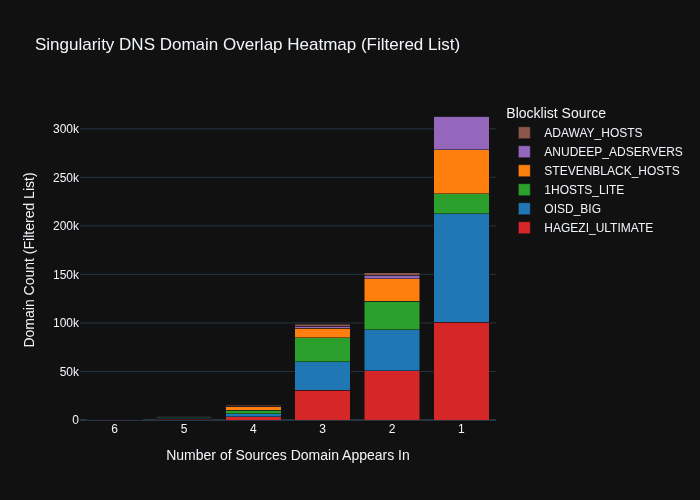
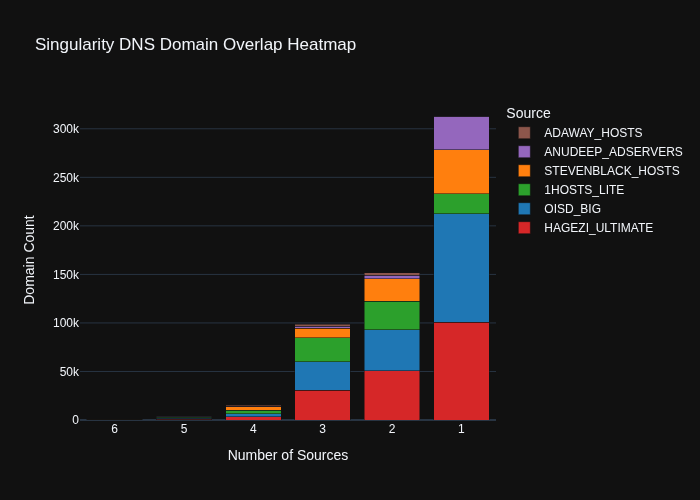
🤖 Update combined blocklist and metrics report

diff --git a/Aggregated_list/dashboard.html b/Aggregated_list/dashboard.html
@@ -2,6 +2,6 @@
 <head><meta charset="utf-8" /></head>
 <body>
     <div>                        <script type="text/javascript">window.PlotlyConfig = {MathJaxConfig: 'local'};</script>
-        <script charset="utf-8" src="https://cdn.plot.ly/plotly-3.3.0.min.js" integrity="sha256-bO3dS6yCpk9aK4gUpNELtCiDeSYvGYnK7jFI58NQnHI=" crossorigin="anonymous"></script>                <div id="25662a97-d006-40bb-9c57-b7e707ad265c" class="plotly-graph-div" style="height:100%; width:100%;"></div>            <script type="text/javascript">                window.PLOTLYENV=window.PLOTLYENV || {};                                if (document.getElementById("25662a97-d006-40bb-9c57-b7e707ad265c")) {                    Plotly.newPlot(                        "25662a97-d006-40bb-9c57-b7e707ad265c",                        [{"hovertemplate":"\u003cb\u003eSource:\u003c\u002fb\u003e %{name}\u003cbr\u003e\u003cb\u003eOverlap Level:\u003c\u002fb\u003e %{x}\u003cbr\u003e\u003cb\u003eDomains:\u003c\u002fb\u003e %{y:}\u003cextra\u003e\u003c\u002fextra\u003e","marker":{"color":"#d62728"},"name":"HAGEZI_ULTIMATE","x":["6","5","4","3","2","1"],"y":[158,874,3336,30520,50690,100509],"type":"bar"},{"hovertemplate":"\u003cb\u003eSource:\u003c\u002fb\u003e %{name}\u003cbr\u003e\u003cb\u003eOverlap Level:\u003c\u002fb\u003e %{x}\u003cbr\u003e\u003cb\u003eDomains:\u003c\u002fb\u003e %{y:}\u003cextra\u003e\u003c\u002fextra\u003e","marker":{"color":"#1f77b4"},"name":"OISD_BIG","x":["6","5","4","3","2","1"],"y":[158,833,3024,29542,42377,111984],"type":"bar"},{"hovertemplate":"\u003cb\u003eSource:\u003c\u002fb\u003e %{name}\u003cbr\u003e\u003cb\u003eOverlap Level:\u003c\u002fb\u003e %{x}\u003cbr\u003e\u003cb\u003eDomains:\u003c\u002fb\u003e %{y:}\u003cextra\u003e\u003c\u002fextra\u003e","marker":{"color":"#2ca02c"},"name":"1HOSTS_LITE","x":["6","5","4","3","2","1"],"y":[158,890,3537,24654,29384,20522],"type":"bar"},{"hovertemplate":"\u003cb\u003eSource:\u003c\u002fb\u003e %{name}\u003cbr\u003e\u003cb\u003eOverlap Level:\u003c\u002fb\u003e %{x}\u003cbr\u003e\u003cb\u003eDomains:\u003c\u002fb\u003e %{y:}\u003cextra\u003e\u003c\u002fextra\u003e","marker":{"color":"#ff7f0e"},"name":"STEVENBLACK_HOSTS","x":["6","5","4","3","2","1"],"y":[158,912,3555,9763,23117,45204],"type":"bar"},{"hovertemplate":"\u003cb\u003eSource:\u003c\u002fb\u003e %{name}\u003cbr\u003e\u003cb\u003eOverlap Level:\u003c\u002fb\u003e %{x}\u003cbr\u003e\u003cb\u003eDomains:\u003c\u002fb\u003e %{y:}\u003cextra\u003e\u003c\u002fextra\u003e","marker":{"color":"#9467bd"},"name":"ANUDEEP_ADSERVERS","x":["6","5","4","3","2","1"],"y":[158,382,729,2261,3473,34971],"type":"bar"},{"hovertemplate":"\u003cb\u003eSource:\u003c\u002fb\u003e %{name}\u003cbr\u003e\u003cb\u003eOverlap Level:\u003c\u002fb\u003e %{x}\u003cbr\u003e\u003cb\u003eDomains:\u003c\u002fb\u003e %{y:}\u003cextra\u003e\u003c\u002fextra\u003e","marker":{"color":"#8c564b"},"name":"ADAWAY_HOSTS","x":["6","5","4","3","2","1"],"y":[158,669,895,1987,2779,10],"type":"bar"}],                        {"template":{"data":{"barpolar":[{"marker":{"line":{"color":"rgb(17,17,17)","width":0.5},"pattern":{"fillmode":"overlay","size":10,"solidity":0.2}},"type":"barpolar"}],"bar":[{"error_x":{"color":"#f2f5fa"},"error_y":{"color":"#f2f5fa"},"marker":{"line":{"color":"rgb(17,17,17)","width":0.5},"pattern":{"fillmode":"overlay","size":10,"solidity":0.2}},"type":"bar"}],"carpet":[{"aaxis":{"endlinecolor":"#A2B1C6","gridcolor":"#506784","linecolor":"#506784","minorgridcolor":"#506784","startlinecolor":"#A2B1C6"},"baxis":{"endlinecolor":"#A2B1C6","gridcolor":"#506784","linecolor":"#506784","minorgridcolor":"#506784","startlinecolor":"#A2B1C6"},"type":"carpet"}],"choropleth":[{"colorbar":{"outlinewidth":0,"ticks":""},"type":"choropleth"}],"contourcarpet":[{"colorbar":{"outlinewidth":0,"ticks":""},"type":"contourcarpet"}],"contour":[{"colorbar":{"outlinewidth":0,"ticks":""},"colorscale":[[0.0,"#0d0887"],[0.1111111111111111,"#46039f"],[0.2222222222222222,"#7201a8"],[0.3333333333333333,"#9c179e"],[0.4444444444444444,"#bd3786"],[0.5555555555555556,"#d8576b"],[0.6666666666666666,"#ed7953"],[0.7777777777777778,"#fb9f3a"],[0.8888888888888888,"#fdca26"],[1.0,"#f0f921"]],"type":"contour"}],"heatmap":[{"colorbar":{"outlinewidth":0,"ticks":""},"colorscale":[[0.0,"#0d0887"],[0.1111111111111111,"#46039f"],[0.2222222222222222,"#7201a8"],[0.3333333333333333,"#9c179e"],[0.4444444444444444,"#bd3786"],[0.5555555555555556,"#d8576b"],[0.6666666666666666,"#ed7953"],[0.7777777777777778,"#fb9f3a"],[0.8888888888888888,"#fdca26"],[1.0,"#f0f921"]],"type":"heatmap"}],"histogram2dcontour":[{"colorbar":{"outlinewidth":0,"ticks":""},"colorscale":[[0.0,"#0d0887"],[0.1111111111111111,"#46039f"],[0.2222222222222222,"#7201a8"],[0.3333333333333333,"#9c179e"],[0.4444444444444444,"#bd3786"],[0.5555555555555556,"#d8576b"],[0.6666666666666666,"#ed7953"],[0.7777777777777778,"#fb9f3a"],[0.8888888888888888,"#fdca26"],[1.0,"#f0f921"]],"type":"histogram2dcontour"}],"histogram2d":[{"colorbar":{"outlinewidth":0,"ticks":""},"colorscale":[[0.0,"#0d0887"],[0.1111111111111111,"#46039f"],[0.2222222222222222,"#7201a8"],[0.3333333333333333,"#9c179e"],[0.4444444444444444,"#bd3786"],[0.5555555555555556,"#d8576b"],[0.6666666666666666,"#ed7953"],[0.7777777777777778,"#fb9f3a"],[0.8888888888888888,"#fdca26"],[1.0,"#f0f921"]],"type":"histogram2d"}],"histogram":[{"marker":{"pattern":{"fillmode":"overlay","size":10,"solidity":0.2}},"type":"histogram"}],"mesh3d":[{"colorbar":{"outlinewidth":0,"ticks":""},"type":"mesh3d"}],"parcoords":[{"line":{"colorbar":{"outlinewidth":0,"ticks":""}},"type":"parcoords"}],"pie":[{"automargin":true,"type":"pie"}],"scatter3d":[{"line":{"colorbar":{"outlinewidth":0,"ticks":""}},"marker":{"colorbar":{"outlinewidth":0,"ticks":""}},"type":"scatter3d"}],"scattercarpet":[{"marker":{"colorbar":{"outlinewidth":0,"ticks":""}},"type":"scattercarpet"}],"scattergeo":[{"marker":{"colorbar":{"outlinewidth":0,"ticks":""}},"type":"scattergeo"}],"scattergl":[{"marker":{"line":{"color":"#283442"}},"type":"scattergl"}],"scattermapbox":[{"marker":{"colorbar":{"outlinewidth":0,"ticks":""}},"type":"scattermapbox"}],"scattermap":[{"marker":{"colorbar":{"outlinewidth":0,"ticks":""}},"type":"scattermap"}],"scatterpolargl":[{"marker":{"colorbar":{"outlinewidth":0,"ticks":""}},"type":"scatterpolargl"}],"scatterpolar":[{"marker":{"colorbar":{"outlinewidth":0,"ticks":""}},"type":"scatterpolar"}],"scatter":[{"marker":{"line":{"color":"#283442"}},"type":"scatter"}],"scatterternary":[{"marker":{"colorbar":{"outlinewidth":0,"ticks":""}},"type":"scatterternary"}],"surface":[{"colorbar":{"outlinewidth":0,"ticks":""},"colorscale":[[0.0,"#0d0887"],[0.1111111111111111,"#46039f"],[0.2222222222222222,"#7201a8"],[0.3333333333333333,"#9c179e"],[0.4444444444444444,"#bd3786"],[0.5555555555555556,"#d8576b"],[0.6666666666666666,"#ed7953"],[0.7777777777777778,"#fb9f3a"],[0.8888888888888888,"#fdca26"],[1.0,"#f0f921"]],"type":"surface"}],"table":[{"cells":{"fill":{"color":"#506784"},"line":{"color":"rgb(17,17,17)"}},"header":{"fill":{"color":"#2a3f5f"},"line":{"color":"rgb(17,17,17)"}},"type":"table"}]},"layout":{"annotationdefaults":{"arrowcolor":"#f2f5fa","arrowhead":0,"arrowwidth":1},"autotypenumbers":"strict","coloraxis":{"colorbar":{"outlinewidth":0,"ticks":""}},"colorscale":{"diverging":[[0,"#8e0152"],[0.1,"#c51b7d"],[0.2,"#de77ae"],[0.3,"#f1b6da"],[0.4,"#fde0ef"],[0.5,"#f7f7f7"],[0.6,"#e6f5d0"],[0.7,"#b8e186"],[0.8,"#7fbc41"],[0.9,"#4d9221"],[1,"#276419"]],"sequential":[[0.0,"#0d0887"],[0.1111111111111111,"#46039f"],[0.2222222222222222,"#7201a8"],[0.3333333333333333,"#9c179e"],[0.4444444444444444,"#bd3786"],[0.5555555555555556,"#d8576b"],[0.6666666666666666,"#ed7953"],[0.7777777777777778,"#fb9f3a"],[0.8888888888888888,"#fdca26"],[1.0,"#f0f921"]],"sequentialminus":[[0.0,"#0d0887"],[0.1111111111111111,"#46039f"],[0.2222222222222222,"#7201a8"],[0.3333333333333333,"#9c179e"],[0.4444444444444444,"#bd3786"],[0.5555555555555556,"#d8576b"],[0.6666666666666666,"#ed7953"],[0.7777777777777778,"#fb9f3a"],[0.8888888888888888,"#fdca26"],[1.0,"#f0f921"]]},"colorway":["#636efa","#EF553B","#00cc96","#ab63fa","#FFA15A","#19d3f3","#FF6692","#B6E880","#FF97FF","#FECB52"],"font":{"color":"#f2f5fa"},"geo":{"bgcolor":"rgb(17,17,17)","lakecolor":"rgb(17,17,17)","landcolor":"rgb(17,17,17)","showlakes":true,"showland":true,"subunitcolor":"#506784"},"hoverlabel":{"align":"left"},"hovermode":"closest","mapbox":{"style":"dark"},"paper_bgcolor":"rgb(17,17,17)","plot_bgcolor":"rgb(17,17,17)","polar":{"angularaxis":{"gridcolor":"#506784","linecolor":"#506784","ticks":""},"bgcolor":"rgb(17,17,17)","radialaxis":{"gridcolor":"#506784","linecolor":"#506784","ticks":""}},"scene":{"xaxis":{"backgroundcolor":"rgb(17,17,17)","gridcolor":"#506784","gridwidth":2,"linecolor":"#506784","showbackground":true,"ticks":"","zerolinecolor":"#C8D4E3"},"yaxis":{"backgroundcolor":"rgb(17,17,17)","gridcolor":"#506784","gridwidth":2,"linecolor":"#506784","showbackground":true,"ticks":"","zerolinecolor":"#C8D4E3"},"zaxis":{"backgroundcolor":"rgb(17,17,17)","gridcolor":"#506784","gridwidth":2,"linecolor":"#506784","showbackground":true,"ticks":"","zerolinecolor":"#C8D4E3"}},"shapedefaults":{"line":{"color":"#f2f5fa"}},"sliderdefaults":{"bgcolor":"#C8D4E3","bordercolor":"rgb(17,17,17)","borderwidth":1,"tickwidth":0},"ternary":{"aaxis":{"gridcolor":"#506784","linecolor":"#506784","ticks":""},"baxis":{"gridcolor":"#506784","linecolor":"#506784","ticks":""},"bgcolor":"rgb(17,17,17)","caxis":{"gridcolor":"#506784","linecolor":"#506784","ticks":""}},"title":{"x":0.05},"updatemenudefaults":{"bgcolor":"#506784","borderwidth":0},"xaxis":{"automargin":true,"gridcolor":"#283442","linecolor":"#506784","ticks":"","title":{"standoff":15},"zerolinecolor":"#283442","zerolinewidth":2},"yaxis":{"automargin":true,"gridcolor":"#283442","linecolor":"#506784","ticks":"","title":{"standoff":15},"zerolinecolor":"#283442","zerolinewidth":2}}},"legend":{"title":{"text":"Blocklist Source"}},"barmode":"stack","title":{"text":"Singularity DNS Domain Overlap Heatmap (Filtered List)"},"xaxis":{"title":{"text":"Number of Sources Domain Appears In"}},"yaxis":{"title":{"text":"Domain Count (Filtered List)"}},"hovermode":"x unified"},                        {"responsive": true}                    )                };            </script>        </div>
+        <script charset="utf-8" src="https://cdn.plot.ly/plotly-3.3.0.min.js" integrity="sha256-bO3dS6yCpk9aK4gUpNELtCiDeSYvGYnK7jFI58NQnHI=" crossorigin="anonymous"></script>                <div id="63517509-0731-4a5f-870f-7dd32f53916a" class="plotly-graph-div" style="height:100%; width:100%;"></div>            <script type="text/javascript">                window.PLOTLYENV=window.PLOTLYENV || {};                                if (document.getElementById("63517509-0731-4a5f-870f-7dd32f53916a")) {                    Plotly.newPlot(                        "63517509-0731-4a5f-870f-7dd32f53916a",                        [{"hovertemplate":"\u003cb\u003eSource:\u003c\u002fb\u003e %{name}\u003cbr\u003e\u003cb\u003eOverlap Level:\u003c\u002fb\u003e %{x}\u003cbr\u003e\u003cb\u003eDomains:\u003c\u002fb\u003e %{y}\u003cextra\u003e\u003c\u002fextra\u003e","marker":{"color":"#d62728"},"name":"HAGEZI_ULTIMATE","x":["6","5","4","3","2","1"],"y":[158,874,3336,30520,50690,100509],"type":"bar"},{"hovertemplate":"\u003cb\u003eSource:\u003c\u002fb\u003e %{name}\u003cbr\u003e\u003cb\u003eOverlap Level:\u003c\u002fb\u003e %{x}\u003cbr\u003e\u003cb\u003eDomains:\u003c\u002fb\u003e %{y}\u003cextra\u003e\u003c\u002fextra\u003e","marker":{"color":"#1f77b4"},"name":"OISD_BIG","x":["6","5","4","3","2","1"],"y":[158,833,3024,29542,42377,111984],"type":"bar"},{"hovertemplate":"\u003cb\u003eSource:\u003c\u002fb\u003e %{name}\u003cbr\u003e\u003cb\u003eOverlap Level:\u003c\u002fb\u003e %{x}\u003cbr\u003e\u003cb\u003eDomains:\u003c\u002fb\u003e %{y}\u003cextra\u003e\u003c\u002fextra\u003e","marker":{"color":"#2ca02c"},"name":"1HOSTS_LITE","x":["6","5","4","3","2","1"],"y":[158,890,3537,24654,29384,20522],"type":"bar"},{"hovertemplate":"\u003cb\u003eSource:\u003c\u002fb\u003e %{name}\u003cbr\u003e\u003cb\u003eOverlap Level:\u003c\u002fb\u003e %{x}\u003cbr\u003e\u003cb\u003eDomains:\u003c\u002fb\u003e %{y}\u003cextra\u003e\u003c\u002fextra\u003e","marker":{"color":"#ff7f0e"},"name":"STEVENBLACK_HOSTS","x":["6","5","4","3","2","1"],"y":[158,912,3555,9763,23117,45204],"type":"bar"},{"hovertemplate":"\u003cb\u003eSource:\u003c\u002fb\u003e %{name}\u003cbr\u003e\u003cb\u003eOverlap Level:\u003c\u002fb\u003e %{x}\u003cbr\u003e\u003cb\u003eDomains:\u003c\u002fb\u003e %{y}\u003cextra\u003e\u003c\u002fextra\u003e","marker":{"color":"#9467bd"},"name":"ANUDEEP_ADSERVERS","x":["6","5","4","3","2","1"],"y":[158,382,729,2261,3473,34971],"type":"bar"},{"hovertemplate":"\u003cb\u003eSource:\u003c\u002fb\u003e %{name}\u003cbr\u003e\u003cb\u003eOverlap Level:\u003c\u002fb\u003e %{x}\u003cbr\u003e\u003cb\u003eDomains:\u003c\u002fb\u003e %{y}\u003cextra\u003e\u003c\u002fextra\u003e","marker":{"color":"#8c564b"},"name":"ADAWAY_HOSTS","x":["6","5","4","3","2","1"],"y":[158,669,895,1987,2779,10],"type":"bar"}],                        {"template":{"data":{"barpolar":[{"marker":{"line":{"color":"rgb(17,17,17)","width":0.5},"pattern":{"fillmode":"overlay","size":10,"solidity":0.2}},"type":"barpolar"}],"bar":[{"error_x":{"color":"#f2f5fa"},"error_y":{"color":"#f2f5fa"},"marker":{"line":{"color":"rgb(17,17,17)","width":0.5},"pattern":{"fillmode":"overlay","size":10,"solidity":0.2}},"type":"bar"}],"carpet":[{"aaxis":{"endlinecolor":"#A2B1C6","gridcolor":"#506784","linecolor":"#506784","minorgridcolor":"#506784","startlinecolor":"#A2B1C6"},"baxis":{"endlinecolor":"#A2B1C6","gridcolor":"#506784","linecolor":"#506784","minorgridcolor":"#506784","startlinecolor":"#A2B1C6"},"type":"carpet"}],"choropleth":[{"colorbar":{"outlinewidth":0,"ticks":""},"type":"choropleth"}],"contourcarpet":[{"colorbar":{"outlinewidth":0,"ticks":""},"type":"contourcarpet"}],"contour":[{"colorbar":{"outlinewidth":0,"ticks":""},"colorscale":[[0.0,"#0d0887"],[0.1111111111111111,"#46039f"],[0.2222222222222222,"#7201a8"],[0.3333333333333333,"#9c179e"],[0.4444444444444444,"#bd3786"],[0.5555555555555556,"#d8576b"],[0.6666666666666666,"#ed7953"],[0.7777777777777778,"#fb9f3a"],[0.8888888888888888,"#fdca26"],[1.0,"#f0f921"]],"type":"contour"}],"heatmap":[{"colorbar":{"outlinewidth":0,"ticks":""},"colorscale":[[0.0,"#0d0887"],[0.1111111111111111,"#46039f"],[0.2222222222222222,"#7201a8"],[0.3333333333333333,"#9c179e"],[0.4444444444444444,"#bd3786"],[0.5555555555555556,"#d8576b"],[0.6666666666666666,"#ed7953"],[0.7777777777777778,"#fb9f3a"],[0.8888888888888888,"#fdca26"],[1.0,"#f0f921"]],"type":"heatmap"}],"histogram2dcontour":[{"colorbar":{"outlinewidth":0,"ticks":""},"colorscale":[[0.0,"#0d0887"],[0.1111111111111111,"#46039f"],[0.2222222222222222,"#7201a8"],[0.3333333333333333,"#9c179e"],[0.4444444444444444,"#bd3786"],[0.5555555555555556,"#d8576b"],[0.6666666666666666,"#ed7953"],[0.7777777777777778,"#fb9f3a"],[0.8888888888888888,"#fdca26"],[1.0,"#f0f921"]],"type":"histogram2dcontour"}],"histogram2d":[{"colorbar":{"outlinewidth":0,"ticks":""},"colorscale":[[0.0,"#0d0887"],[0.1111111111111111,"#46039f"],[0.2222222222222222,"#7201a8"],[0.3333333333333333,"#9c179e"],[0.4444444444444444,"#bd3786"],[0.5555555555555556,"#d8576b"],[0.6666666666666666,"#ed7953"],[0.7777777777777778,"#fb9f3a"],[0.8888888888888888,"#fdca26"],[1.0,"#f0f921"]],"type":"histogram2d"}],"histogram":[{"marker":{"pattern":{"fillmode":"overlay","size":10,"solidity":0.2}},"type":"histogram"}],"mesh3d":[{"colorbar":{"outlinewidth":0,"ticks":""},"type":"mesh3d"}],"parcoords":[{"line":{"colorbar":{"outlinewidth":0,"ticks":""}},"type":"parcoords"}],"pie":[{"automargin":true,"type":"pie"}],"scatter3d":[{"line":{"colorbar":{"outlinewidth":0,"ticks":""}},"marker":{"colorbar":{"outlinewidth":0,"ticks":""}},"type":"scatter3d"}],"scattercarpet":[{"marker":{"colorbar":{"outlinewidth":0,"ticks":""}},"type":"scattercarpet"}],"scattergeo":[{"marker":{"colorbar":{"outlinewidth":0,"ticks":""}},"type":"scattergeo"}],"scattergl":[{"marker":{"line":{"color":"#283442"}},"type":"scattergl"}],"scattermapbox":[{"marker":{"colorbar":{"outlinewidth":0,"ticks":""}},"type":"scattermapbox"}],"scattermap":[{"marker":{"colorbar":{"outlinewidth":0,"ticks":""}},"type":"scattermap"}],"scatterpolargl":[{"marker":{"colorbar":{"outlinewidth":0,"ticks":""}},"type":"scatterpolargl"}],"scatterpolar":[{"marker":{"colorbar":{"outlinewidth":0,"ticks":""}},"type":"scatterpolar"}],"scatter":[{"marker":{"line":{"color":"#283442"}},"type":"scatter"}],"scatterternary":[{"marker":{"colorbar":{"outlinewidth":0,"ticks":""}},"type":"scatterternary"}],"surface":[{"colorbar":{"outlinewidth":0,"ticks":""},"colorscale":[[0.0,"#0d0887"],[0.1111111111111111,"#46039f"],[0.2222222222222222,"#7201a8"],[0.3333333333333333,"#9c179e"],[0.4444444444444444,"#bd3786"],[0.5555555555555556,"#d8576b"],[0.6666666666666666,"#ed7953"],[0.7777777777777778,"#fb9f3a"],[0.8888888888888888,"#fdca26"],[1.0,"#f0f921"]],"type":"surface"}],"table":[{"cells":{"fill":{"color":"#506784"},"line":{"color":"rgb(17,17,17)"}},"header":{"fill":{"color":"#2a3f5f"},"line":{"color":"rgb(17,17,17)"}},"type":"table"}]},"layout":{"annotationdefaults":{"arrowcolor":"#f2f5fa","arrowhead":0,"arrowwidth":1},"autotypenumbers":"strict","coloraxis":{"colorbar":{"outlinewidth":0,"ticks":""}},"colorscale":{"diverging":[[0,"#8e0152"],[0.1,"#c51b7d"],[0.2,"#de77ae"],[0.3,"#f1b6da"],[0.4,"#fde0ef"],[0.5,"#f7f7f7"],[0.6,"#e6f5d0"],[0.7,"#b8e186"],[0.8,"#7fbc41"],[0.9,"#4d9221"],[1,"#276419"]],"sequential":[[0.0,"#0d0887"],[0.1111111111111111,"#46039f"],[0.2222222222222222,"#7201a8"],[0.3333333333333333,"#9c179e"],[0.4444444444444444,"#bd3786"],[0.5555555555555556,"#d8576b"],[0.6666666666666666,"#ed7953"],[0.7777777777777778,"#fb9f3a"],[0.8888888888888888,"#fdca26"],[1.0,"#f0f921"]],"sequentialminus":[[0.0,"#0d0887"],[0.1111111111111111,"#46039f"],[0.2222222222222222,"#7201a8"],[0.3333333333333333,"#9c179e"],[0.4444444444444444,"#bd3786"],[0.5555555555555556,"#d8576b"],[0.6666666666666666,"#ed7953"],[0.7777777777777778,"#fb9f3a"],[0.8888888888888888,"#fdca26"],[1.0,"#f0f921"]]},"colorway":["#636efa","#EF553B","#00cc96","#ab63fa","#FFA15A","#19d3f3","#FF6692","#B6E880","#FF97FF","#FECB52"],"font":{"color":"#f2f5fa"},"geo":{"bgcolor":"rgb(17,17,17)","lakecolor":"rgb(17,17,17)","landcolor":"rgb(17,17,17)","showlakes":true,"showland":true,"subunitcolor":"#506784"},"hoverlabel":{"align":"left"},"hovermode":"closest","mapbox":{"style":"dark"},"paper_bgcolor":"rgb(17,17,17)","plot_bgcolor":"rgb(17,17,17)","polar":{"angularaxis":{"gridcolor":"#506784","linecolor":"#506784","ticks":""},"bgcolor":"rgb(17,17,17)","radialaxis":{"gridcolor":"#506784","linecolor":"#506784","ticks":""}},"scene":{"xaxis":{"backgroundcolor":"rgb(17,17,17)","gridcolor":"#506784","gridwidth":2,"linecolor":"#506784","showbackground":true,"ticks":"","zerolinecolor":"#C8D4E3"},"yaxis":{"backgroundcolor":"rgb(17,17,17)","gridcolor":"#506784","gridwidth":2,"linecolor":"#506784","showbackground":true,"ticks":"","zerolinecolor":"#C8D4E3"},"zaxis":{"backgroundcolor":"rgb(17,17,17)","gridcolor":"#506784","gridwidth":2,"linecolor":"#506784","showbackground":true,"ticks":"","zerolinecolor":"#C8D4E3"}},"shapedefaults":{"line":{"color":"#f2f5fa"}},"sliderdefaults":{"bgcolor":"#C8D4E3","bordercolor":"rgb(17,17,17)","borderwidth":1,"tickwidth":0},"ternary":{"aaxis":{"gridcolor":"#506784","linecolor":"#506784","ticks":""},"baxis":{"gridcolor":"#506784","linecolor":"#506784","ticks":""},"bgcolor":"rgb(17,17,17)","caxis":{"gridcolor":"#506784","linecolor":"#506784","ticks":""}},"title":{"x":0.05},"updatemenudefaults":{"bgcolor":"#506784","borderwidth":0},"xaxis":{"automargin":true,"gridcolor":"#283442","linecolor":"#506784","ticks":"","title":{"standoff":15},"zerolinecolor":"#283442","zerolinewidth":2},"yaxis":{"automargin":true,"gridcolor":"#283442","linecolor":"#506784","ticks":"","title":{"standoff":15},"zerolinecolor":"#283442","zerolinewidth":2}}},"legend":{"title":{"text":"Source"}},"barmode":"stack","title":{"text":"Singularity DNS Domain Overlap Heatmap"},"xaxis":{"title":{"text":"Number of Sources"}},"yaxis":{"title":{"text":"Domain Count"}},"hovermode":"x unified"},                        {"responsive": true}                    )                };            </script>        </div>
 </body>
 </html>
